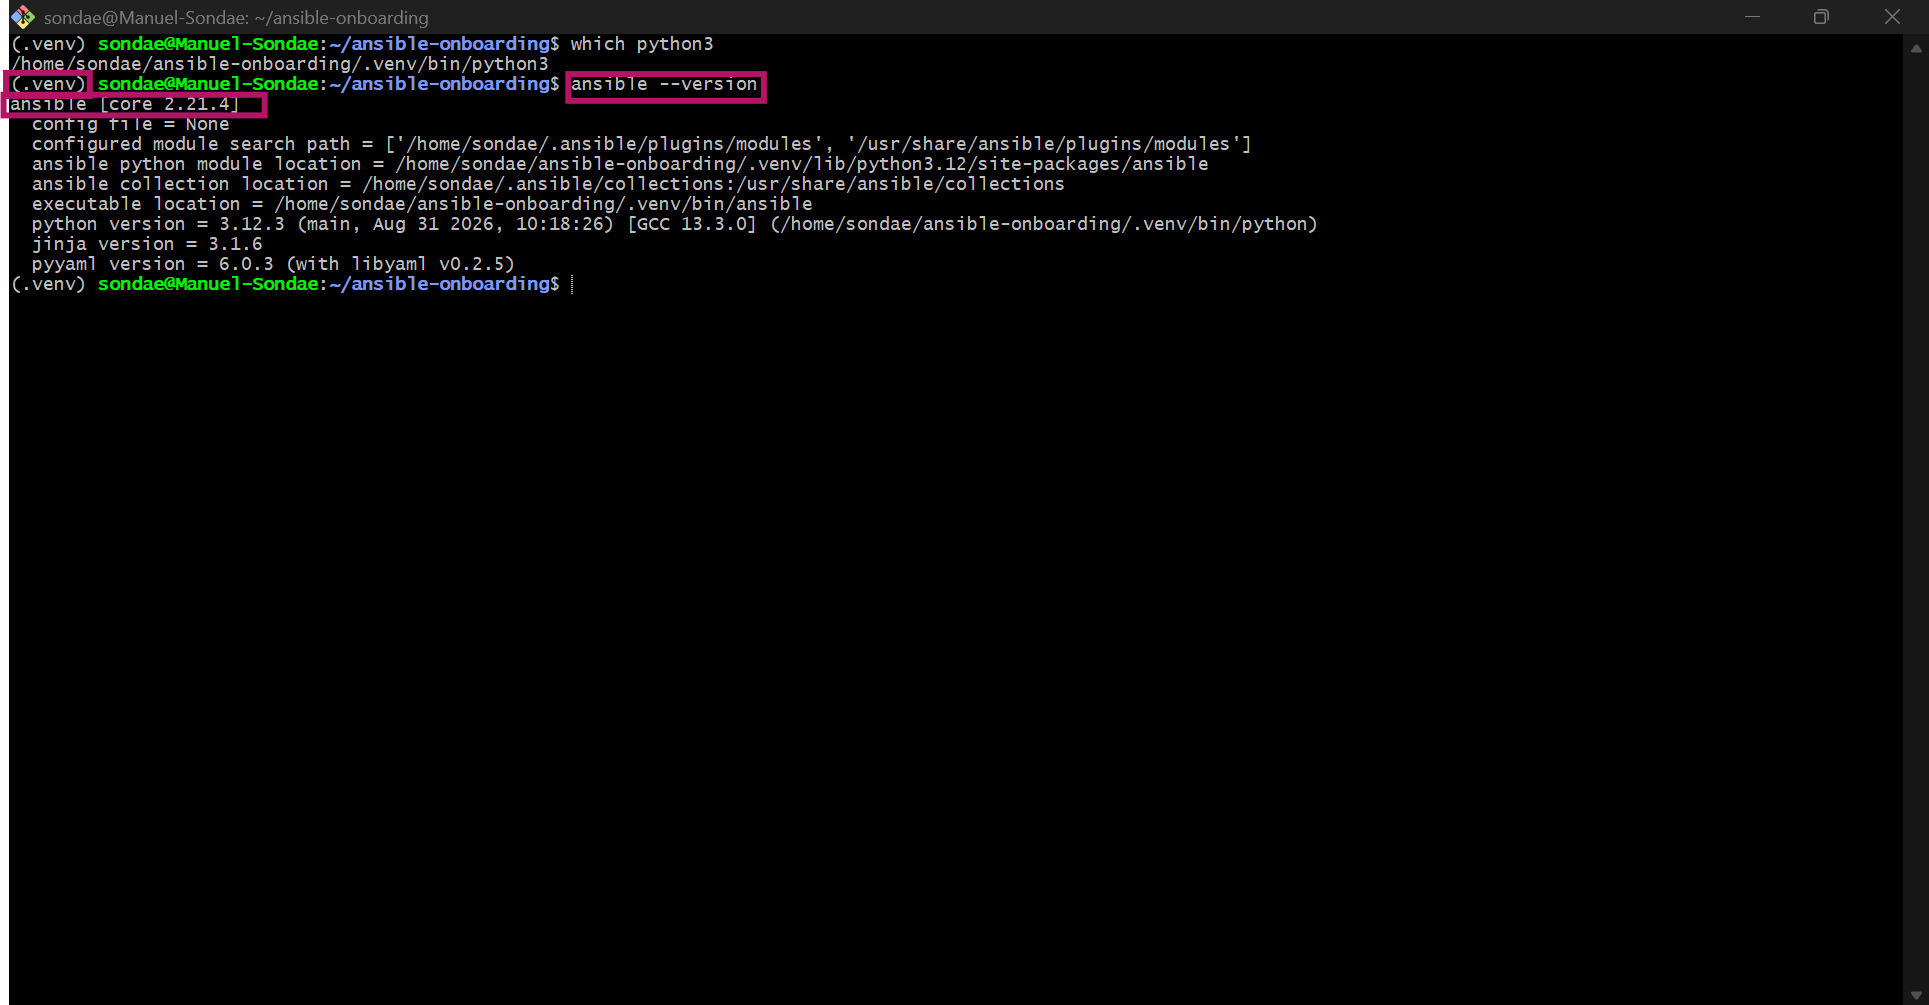
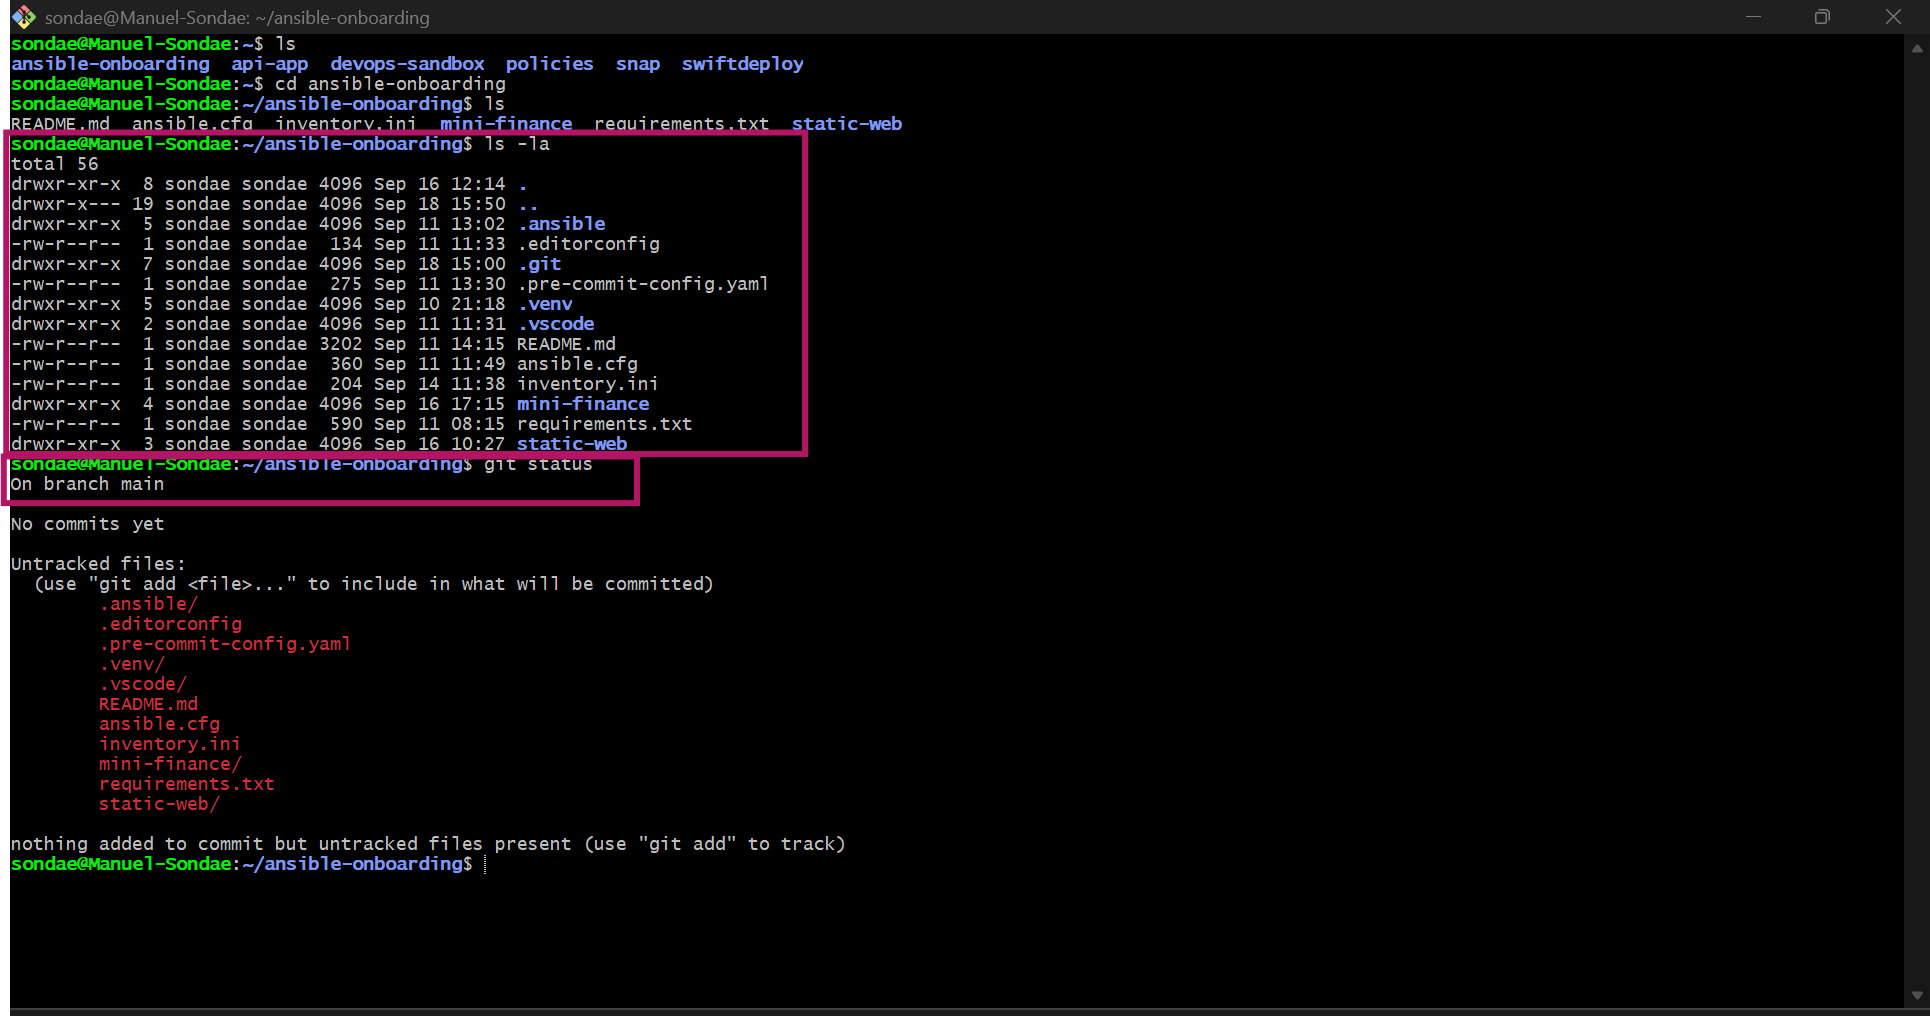
Assignment 01: Set Up a Team-Ready Ansible Development Workstation

diff --git a/week-09-ansible/assignment-01-set-up-a-team-ready-ansible-development-workstation.md b/week-09-ansible/assignment-01-set-up-a-team-ready-ansible-development-workstation.md
@@ -24,7 +24,7 @@ Create the assignment workspace, initialize a Git repository, prepare the requir
 
 #### Screenshot 1 — Terminal showing the `ansible-onboarding` path, `ls -la` output, and `git status` confirming the Git repository is on the `main` branch
 
-Add your screenshot here.
+![alt text](screenshots/Assignment-01-Task-01-screenshot-01.png)
 
 ---
 
@@ -38,7 +38,7 @@ Create an isolated Python virtual environment and install Ansible and the requir
 
 #### Screenshot 2 — Terminal showing the active `(.venv)` environment, `which ansible`, `ansible --version`, `ansible-lint --version`, `yamllint --version`, and `pre-commit --version`
 
-Add your screenshot here.
+![alt text](screenshots/Assignment-01-Task-02-screenshot-02.png)
 
 ---
 
@@ -52,14 +52,14 @@ Configure Visual Studio Code to use the project’s Python virtual environment a
 
 #### Screenshot 3 — VS Code Extensions panel showing the Ansible, YAML, and Python extensions installed
 
-Add your screenshot here.
+![alt text](screenshots/Assignment-01-Task-03-screenshot-03.png)
 
 ---
 
 #### Screenshot 4 — VS Code showing `.vscode/settings.json` and `.editorconfig` open side by side, with the required settings clearly visible
 
-Add your screenshot here.
-
+![alt text](screenshots/Assignment-01-Task-03-screenshot-04a.png)
+![alt text](screenshots/Assignment-01-Task-03-screenshot-04b.png)
 ---
 
 # Task 4 — Create the Baseline Ansible Configuration
@@ -72,13 +72,13 @@ Create a reusable `ansible.cfg` file containing the default settings that will b
 
 #### Screenshot 5 — `ansible.cfg` open in VS Code or another editor, showing the complete configuration
 
-Add your screenshot here.
+![alt text](screenshots/Assignment-01-Task-04-screenshot-05.png)
 
 ---
 
 #### Screenshot 6 — Terminal showing `ansible --version` with the `ansible.cfg` path and the output of `ansible-config dump --only-changed`
 
-Add your screenshot here.
+![alt text](screenshots/Assignment-01-Task-04-screenshot-06.png)
 
 ---
 
@@ -92,7 +92,7 @@ Prepare SSH key authentication, load the key into the SSH agent, configure reusa
 
 #### Screenshot 7 — Terminal showing `ssh-add -l` with the ED25519 key loaded and the SSH configuration verification output
 
-Add your screenshot here.
+![alt text](screenshots/Assignment-01-Task-05-screenshot-07.png)
 
 ---
 
@@ -106,7 +106,7 @@ Configure your Git identity and install pre-commit hooks that validate YAML and 
 
 #### Screenshot 8 — Terminal showing your Git full name, Git email, default branch, successful `pre-commit install` output, and `.git/hooks/pre-commit`
 
-Add your screenshot here.
+![alt text](screenshots/Assignment-01-Task-06-screenshot-08.png)
 
 ---
 
@@ -120,13 +120,13 @@ Verify that Ansible, the linting tools, Git hooks, SSH agent, and Git ignore rul
 
 #### Screenshot 9 — Terminal showing `pre-commit run --all-files` completing successfully
 
-Add your screenshot here.
+![alt text](screenshots/Assignment-01-Task-07-screenshot-09.png)
 
 ---
 
 #### Screenshot 10 — Terminal showing `ansible --version` with the project configuration path and `ssh-add -l` with the ED25519 key loaded
 
-Add your screenshot here.
+![alt text](screenshots/Assignment-01-Task-07-screenshot-10.png)
 
 ---
 
@@ -140,13 +140,15 @@ Document the completed Ansible workstation setup and create a reusable checklist
 
 #### Screenshot 11 — Terminal showing the final `ansible-onboarding` project structure
 
-Add your screenshot here.
+![alt text](screenshots/Assignment-01-Task-08-screenshot-11.png)
 
 ---
 
 #### Screenshot 12 — VS Code Markdown preview showing your full name, project summary, and part of the “New Machine? Do This” checklist
 
-Add your screenshot here.
+![alt text](screenshots/Assignment-01-Task-08-screenshot-12a.png)
+![alt text](screenshots/Assignment-01-Task-08-screenshot-12b.png)
+![alt text](screenshots/Assignment-01-Task-08-screenshot-12c.png)
 
 ---
 
@@ -156,25 +158,25 @@ Answer the following in your own words:
 
 **1. What is one feature that makes your workstation setup team-friendly?**
 
-Add your answer here.
+The ansible.cfg, .editorconfig, and pre-commit hooks are all committed to the repo, so anyone who clones it gets the same linting rules, formatting settings, and Ansible defaults automatically — nobody has to configure their own environment by hand or guess at team conventions.
 
 ---
 
 **2. What is one pitfall you avoided while completing the setup?**
 
-Add your answer here.
+I made sure .venv/ and my private SSH key were excluded via .gitignore before my first commit, rather than committing them and having to remove them afterward. Committing a virtual environment or private key even once means it stays in the Git history permanently unless you rewrite history to remove it.
 
 ---
 
 **3. Why should Ansible be installed inside a Python virtual environment?**
 
-Add your answer here.
+A virtual environment isolates this project's Python packages from the system-wide Python installation, so Ansible and its dependencies here don't conflict with anything else on the machine, and other projects aren't affected by whatever versions this project needs.
 
 ---
 
 **4. Why must SSH private keys and `.venv/` remain outside version control?**
 
-Add your answer here.
+A private key committed to Git is a real credential exposed to anyone with repo access — even removing it later doesn't fully protect you unless the history itself is rewritten. .venv/ is machine-specific and can be regenerated from requirements.txt/install commands, so committing it just bloats the repo with redundant, non-portable files instead of the actual source of truth.
 
 ---
 

diff --git a/week-09-ansible/assignment-04-deploy-mini-finance-project-using-terraform-and-ansible.md b/week-09-ansible/assignment-04-deploy-mini-finance-project-using-terraform-and-ansible.md
@@ -20,94 +20,15 @@ Create separate directories and files for the Terraform infrastructure and Ansib
 
 ### Evidence
 
-#### Screenshot 1 — Terminal or editor showing the complete `mini-finance` project tree
+#### Screenshot 1 — Terminal or VS Code showing the complete `mini-finance` project structure
 
-![alt text](screenshots/Assignment-04-Task-01-screenshot-01.png)
-
----
-
-# Task 2 — Terraform — Azure VM + NSG (Ports 22/80)
-
-## Goal
-
-Provision an Ubuntu 22.04 Standard_B1s VM with a public IP, SSH key authentication, and an NSG allowing SSH (22) and HTTP (80), and output the public IP.
-
-### Evidence
-
-#### Screenshot 2 — Terminal showing the end of a successful `terraform apply`
-
-![alt text](screenshots/Assignment-04-Task-02-screenshot-02.png)
-
----
-
-#### Screenshot 3 — Terminal showing `terraform output public_ip`
-
-![alt text](screenshots/Assignment-04-Task-02-screenshot-03.png)
-
----
-
-#### Screenshot 4 — Terraform code or Azure Portal showing NSG inbound rules for ports 22 and 80
-
-![alt text](screenshots/Assignment-04-Task-02-screenshot-04.png)
-
----
-
-# Task 3 — Configure Passwordless SSH
-
-## Goal
-
-Connect to the VM with SSH using the injected key and run `hostname` remotely without a password prompt.
-
-### Evidence
-
-#### Screenshot 5 — Terminal showing the successful passwordless SSH hostname check
-
-![alt text](screenshots/Assignment-04-Task-03-screenshot-05.png)
-
----
-
-# Task 4 — Ansible — Multi-Play: Install → Deploy → Verify
-
-## Goal
-
-Create `ansible/inventory.ini` and a three-play `site.yml` that installs Nginx and Git, clones and deploys the Mini Finance repository to `/var/www/html/` with a reload handler, and verifies HTTP 200 from `localhost`.
-
-### Evidence
-
-#### Screenshot 6 — Editor showing `inventory.ini` and the three plays in `site.yml`
-
-![alt text](screenshots/Assignment-04-Task-04-screenshot-06a.png)
-![alt text](screenshots/Assignment-04-Task-04-screenshot-06b.png)
-![alt text](screenshots/Assignment-04-Task-04-screenshot-06c.png)
-![alt text](screenshots/Assignment-04-Task-04-screenshot-06d.png)
-
----
-
-#### Screenshot 7 — Terminal showing `ansible-playbook -i inventory.ini site.yml` with HTTP 200, assertion OK, and no failures
-
-![alt text](screenshots/Assignment-04-Task-04-screenshot-07.png)
-
----
-
-# Task 5 — Test End-to-End Functionality
-
-## Goal
-
-Confirm the Mini Finance site is publicly accessible and correctly served by Nginx.
-
-### Evidence
-
-#### Screenshot 8 — Browser showing the Mini Finance site loaded from `http://<public_ip>` with the URL visible
-
-![alt text](screenshots/Assignment-04-Task-05-screenshot-08.png)
+Add your screenshot here.
 
 ---
 
 ### Notes
 
-Describe an issue you faced and how you fixed it, and what you learned.
-
-I faced a "Host Key Verification" block while using Ansible in WSL because the automated tool couldn't interactively accept the new AWS server's security signature. I resolved it by setting ANSIBLE_HOST_KEY_CHECKING=False in the configuration files to safely bypass the manual handshake. This taught me that automated DevOps tools require non-interactive environments to run properly, making environment-specific path translations and silent configurations essential for smooth infrastructure deployment
+Add your task notes here.
 
 ---
 
@@ -346,13 +267,100 @@ Add your screenshot here.
 
 Paste your LinkedIn post URL here:
 
-https://www.linkedin.com/posts/emmanuel-sunday-210a08323_dmibypravinmishra-aws-terraform-activity-7506056771505938432-oG97?utm_source=share&utm_medium=member_desktop&rcm=ACoAAFHXXywBq0IrgBBhbi5ULmCrDuZgCEYc6fQ
+`Add your URL here`
 
 ---
 
 ### LinkedIn Submission Notes
 
-![alt text](screenshots/Assignment-04-Task-05-screenshot-09.png)
+**One challenge you faced and how you fixed it:**
+
+Add your answer here.
+
+---
+
+**One real-world example where you can use this learning:**
+
+Add your answer here.
+
+---
+
+# Assignment Questions
+
+Answer the following in your own words:
+
+**1. What did you provision using Terraform in this assignment?**
+
+Add your answer here.
+
+---
+
+**2. What did Ansible configure and deploy in this assignment?**
+
+Add your answer here.
+
+---
+
+**3. Why is SSH access on port `22` restricted to your public IP address?**
+
+Add your answer here.
+
+---
+
+**4. Why is HTTP port `80` open to the internet?**
+
+Add your answer here.
+
+---
+
+**5. What is the purpose of the Ansible inventory file?**
+
+Add your answer here.
+
+---
+
+**6. Why does the playbook use separate plays for install, deploy, and verify?**
+
+Add your answer here.
+
+---
+
+**7. Why is `rsync` useful when deploying website files?**
+
+Add your answer here.
+
+---
+
+**8. What does the Ansible `uri` module verify in this assignment?**
+
+Add your answer here.
+
+---
+
+**9. What issue did you face during this assignment, and how did you fix it?**
+
+Add your answer here.
+
+---
+
+**10. What did you learn from using Terraform and Ansible together?**
+
+Add your answer here.
+
+---
+
+# Required Files
+
+Confirm that the following files are included in your assignment folder:
+
+- [ ] `.gitignore`
+- [ ] `README.md`
+- [ ] `terraform/providers.tf`
+- [ ] `terraform/main.tf`
+- [ ] `terraform/variables.tf`
+- [ ] `terraform/outputs.tf`
+- [ ] `ansible/inventory.ini`
+- [ ] `ansible/site.yml`
 
 ---
 
